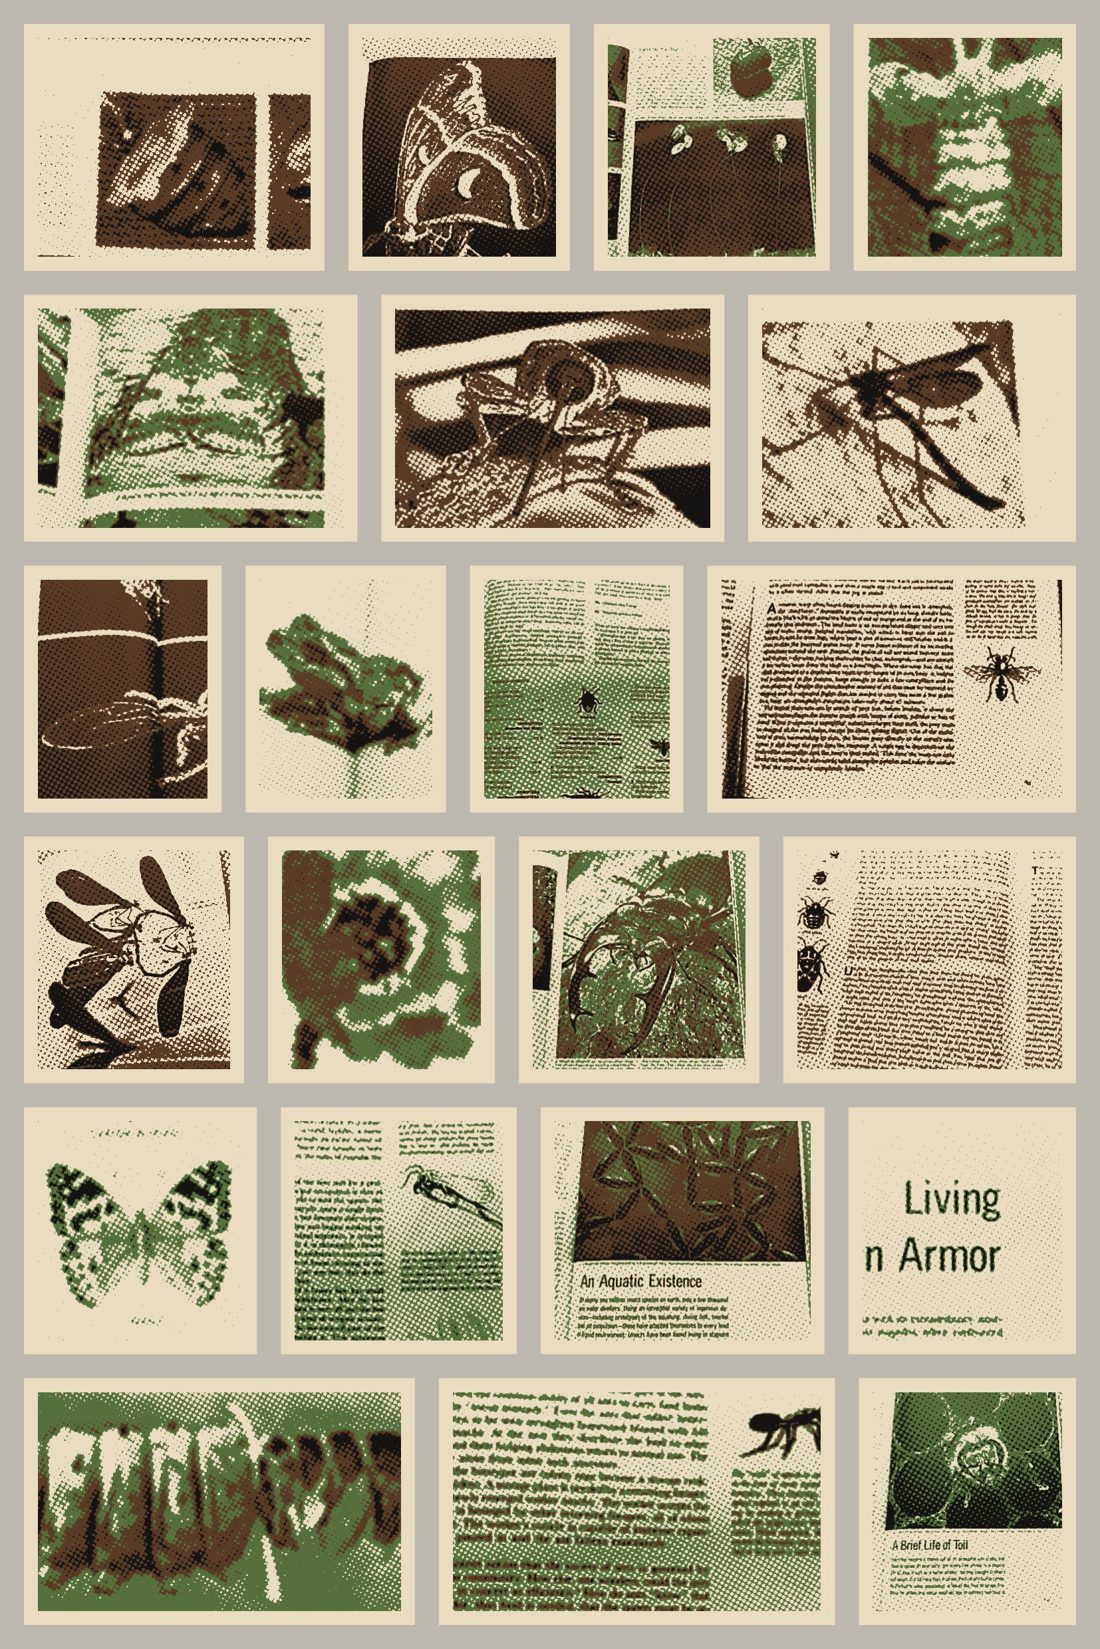
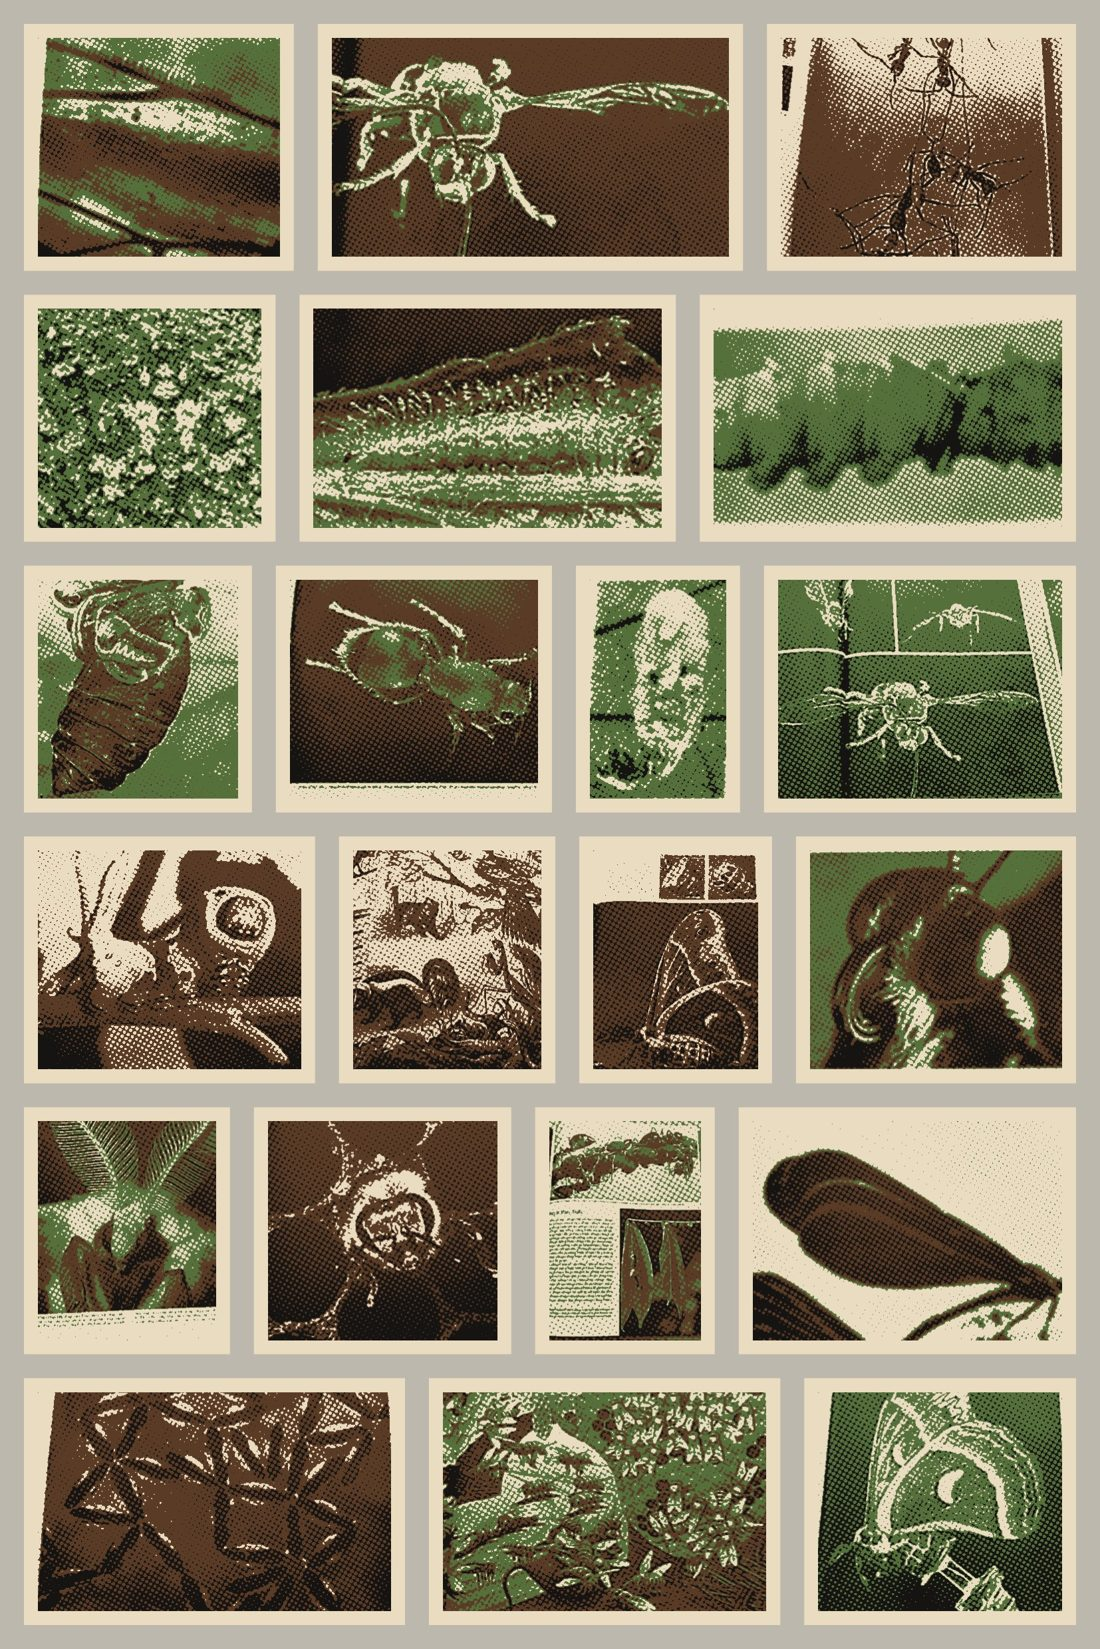
feat: picture-only stamps and picture editor
Claude-Session: https://claude.ai/code/session_01N92mCHG9PcXCEtiR9PC9n8

diff --git a/index.html b/index.html
@@ -37,6 +37,14 @@ main{padding:24px;display:flex;justify-content:center;align-items:flex-start;ove
 #sheet{display:block;width:100%;height:auto;cursor:pointer;border-radius:4px;
   background:repeating-conic-gradient(#e2ddd2 0 25%,#f4f1ea 0 50%) 0 0/18px 18px;box-shadow:0 1px 2px rgba(0,0,0,.08),0 8px 28px rgba(0,0,0,.12)}
 #empty{padding:80px 20px;text-align:center;color:var(--muted)}
+#editor{position:fixed;inset:0;background:#1d1c1afa;display:flex;flex-direction:column;z-index:10;color:#f4f1ea}
+#editor[hidden]{display:none}
+#editor header{display:flex;gap:8px;align-items:center;padding:10px 16px;flex-wrap:wrap}
+#editor header .grow{flex:1;min-width:120px;font-size:13px;color:#cfc8ba}
+#editor button{background:#f4f1ea;color:#1d1c1a;border-color:#f4f1ea}
+#editor button.ghost{background:transparent;color:#f4f1ea}
+#edWrap{flex:1;display:flex;justify-content:center;align-items:center;padding:0 16px 16px;min-height:0}
+#edCanvas{max-width:100%;max-height:100%;cursor:crosshair;touch-action:none}
 @media (max-width:760px){
   body{grid-template-columns:1fr}
   aside{position:static;height:auto;border-right:0;border-bottom:1px solid var(--line)}
@@ -92,6 +100,7 @@ main{padding:24px;display:flex;justify-content:center;align-items:flex-start;ove
     <label><input type="checkbox" id="randPal"> new palette each sheet</label>
   </div>
 
+  <button class="ghost" id="editPics" disabled>Check pictures</button>
   <button id="regen" disabled>New sheet</button>
   <div class="hint">Click a sticker to swap in a different picture.</div>
 
@@ -103,6 +112,17 @@ main{padding:24px;display:flex;justify-content:center;align-items:flex-start;ove
 
   <div id="status"></div>
 </aside>
+
+<div id="editor" hidden>
+  <header>
+    <button class="ghost" id="edPrev">←</button>
+    <button class="ghost" id="edNext">→</button>
+    <span class="grow" id="edInfo"></span>
+    <button class="ghost" id="edClear">Clear page</button>
+    <button id="edDone">Done</button>
+  </header>
+  <div id="edWrap"><canvas id="edCanvas"></canvas></div>
+</div>
 
 <main>
   <div id="wrap">
@@ -232,22 +252,34 @@ function analyze(img0,name){
   // no flood inward: dark photos share the desk's hue and the fill leaks into them
   // Desk colour alone misses shadows under the book, so also treat everything outside the
   // bounding box of the paper-white pixels as desk. Pages here sit roughly square to the camera.
-  const hiL=percentile(L,0.92),colC=new Float32Array(aw),rowC=new Float32Array(ah);
-  for(let i=0;i<N;i++)if(S[i]<0.2&&L[i]>hiL*0.8){colC[i%aw]++;rowC[(i/aw)|0]++;}
-  const span=(arr)=>{const mx=Math.max(...arr),th=mx*0.15;let a=0,b=arr.length-1;while(a<b&&arr[a]<th)a++;while(b>a&&arr[b]<th)b--;return [a,b]};
-  const [bx0,bx1]=span(colC),[by0,by1]=span(rowC);
+  // Count pixels that don't look like desk, so a dark full-page photo still counts as book.
+  const colC=new Float32Array(aw),rowC=new Float32Array(ah);
+  for(let i=0;i<N;i++)if(!near(i)){colC[i%aw]++;rowC[(i/aw)|0]++;}
+  const span=(arr)=>{const mx=Math.max(...arr),th=mx*0.35;let a=0,b=arr.length-1;while(a<b&&arr[a]<th)a++;while(b>a&&arr[b]<th)b--;return [a,b]};
+  let [bx0,bx1]=span(colC),[by0,by1]=span(rowC);
+  // The shadow under the book is darker than the desk but the same hue. Walk in from each edge
+  // while a row or column is still mostly desk-hued at any brightness.
+  const hueDesk=i=>{const r=d[i*4],gg=d[i*4+1],b=d[i*4+2],t=r+gg+b+1,rs=r/t,gs=gg/t;return t>120&&Math.abs(gs-mg)<0.02&&rs>mr-0.03&&rs<mr+0.07};
+  const rowDesk=y=>{let c=0;for(let x=bx0;x<=bx1;x++)c+=hueDesk(y*aw+x);return c/(bx1-bx0+1)>0.6};
+  const colDesk=x=>{let c=0;for(let y=by0;y<=by1;y++)c+=hueDesk(y*aw+x);return c/(by1-by0+1)>0.6};
+  while(by1>by0&&rowDesk(by1))by1--;while(by0<by1&&rowDesk(by0))by0++;
+  while(bx1>bx0&&colDesk(bx1))bx1--;while(bx0<bx1&&colDesk(bx0))bx0++;
   for(let i=0;i<N;i++){const x=i%aw,y=(i/aw)|0;if(x<bx0||x>bx1||y<by0||y>by1)desk0[i]=1;}
   const deskB=boxBlur(desk0,aw,ah,7);
 
   const Lb=boxBlur(L,aw,ah,2),L2=new Float32Array(N);for(let i=0;i<N;i++)L2[i]=L[i]*L[i];
   const L2b=boxBlur(L2,aw,ah,2),Sb=boxBlur(S,aw,ah,2);
+  // judge paper vs picture over a wider window so dense body text reads as grey paper, not as a photo
+  const Lw=boxBlur(L,aw,ah,5),Sw=boxBlur(S,aw,ah,5);
   const pageWhite=percentile(Lb.filter((_,i)=>!desk0[i]),0.9)||0.85;
+  // old paper photographed under warm light is not grey, so measure its own saturation
+  const paperS=percentile(Sb.filter((_,i)=>!desk0[i]&&Lb[i]>pageWhite*0.9),0.5)||0.1;
 
   const desk=new Float32Array(N),fig=new Float32Array(N),text=new Float32Array(N),white=new Float32Array(N);
   for(let i=0;i<N;i++){
     if(deskB[i]>0.02){desk[i]=1;continue}
     const sd=Math.sqrt(Math.max(0,L2b[i]-Lb[i]*Lb[i])),rel=Lb[i]/pageWhite;
-    const paperish=Sb[i]<0.2&&rel>0.72;
+    const paperish=(Sb[i]<paperS+0.1&&rel>0.72)||(Sw[i]<paperS+0.07&&Lw[i]/pageWhite>0.6);
     if(paperish){ if(sd<0.03&&rel>0.9) white[i]=1; else text[i]=1; }
     else fig[i]=1;
   }
@@ -257,7 +289,8 @@ function analyze(img0,name){
     text:integral(boxBlur(text,aw,ah,3),aw,ah),white:integral(white,aw,ah),
     lum:integral(L,aw,ah),lum2:integral(L2,aw,ah),
     maps:{desk,fig,text,white}};
-  p.box={x0:bx0,y0:by0,x1:bx1,y1:by1};p.figs=findFigures(fig,desk,aw,ah);
+  p.box={x0:bx0,y0:by0,x1:bx1,y1:by1};const detail=new Float32Array(N);for(let i=0;i<N;i++)detail[i]=Math.abs(L[i]-Lb[i]);
+  p.figs=findFigures(fig,desk,aw,ah,{text,L,S,detail,box:p.box});
   p.figShare=rectMean(p.fig,aw,0,0,aw,ah);p.textShare=rectMean(p.text,aw,0,0,aw,ah);
   return p;
 }
@@ -301,7 +334,7 @@ function crop(r,W,H){
 
 // Whole pictures, not fragments: connected blobs of "figure" pixels become candidate panels,
 // so a panel can show the entire insect plus the text and white space around it.
-function findFigures(fig,desk,aw,ah){
+function findFigures(fig,desk,aw,ah,ctx){
   const N=aw*ah,b=boxBlur(fig,aw,ah,2),m=new Uint8Array(N);
   for(let i=0;i<N;i++)m[i]=b[i]>0.45&&!desk[i]?1:0;
   const lab=new Int32Array(N),q=new Int32Array(N),out=[];let id=0;
@@ -315,39 +348,60 @@ function findFigures(fig,desk,aw,ah){
       if(y>0&&m[i-aw]&&!lab[i-aw]){lab[i-aw]=id;q[qt++]=i-aw}
       if(y<ah-1&&m[i+aw]&&!lab[i+aw]){lab[i+aw]=id;q[qt++]=i+aw}}
     const w=x1-x0+1,h=y1-y0+1;
-    if(n>N*0.006&&w>14&&h>14&&n/(w*h)>0.2)out.push({x:x0,y:y0,w,h,n});
+    if(n>N*0.006&&w>14&&h>14&&n/(w*h)>0.2&&makesSense(x0,y0,w,h,aw,ctx))out.push({x:x0,y:y0,w,h,n});
   }
   return out;
+}
+
+// Drop blobs that would make a confusing sticker: dense body text the classifier read as a picture,
+// thin strips along the gutter or page edge, flat low-contrast patches, and whole-page blobs that
+// would only ever show as a zoomed-in fragment.
+function makesSense(x0,y0,w,h,aw,{text,L,S,detail,box}){
+  const a=w/h;if(a<0.4||a>2.6)return false;
+  const B=(box.x1-box.x0)*(box.y1-box.y0);if(w*h<B*0.015)return false;
+  let t=0,m=0,m2=0,sat=0,n=0,det=0;
+  for(let y=y0;y<y0+h;y+=2)for(let x=x0;x<x0+w;x+=2){const i=y*aw+x;t+=text[i];det+=detail[i];m+=L[i];m2+=L[i]*L[i];sat+=S[i];n++;}
+  t/=n;m/=n;sat/=n;const sd=Math.sqrt(Math.max(0,m2/n-m*m));
+  if(t>0.3)return false;          // mostly type
+  if(det/n<0.022)return false;    // smooth gradient, like the shadow under the book
+  if(sd<0.12)return false;        // flat, nothing to see
+  if(m<0.2&&sat<0.15)return false; // dark mush
+  return true;
 }
 
 // ---------- panel sources ----------
 let usedFigs=new Set(),usedPages=new Set();
 function figRect(p,f,aspect){
-  // Inset well inside the photo: rotation fixes tilt but not the keystone from shooting at an angle.
-  if(f.n/(f.w*f.h)>0.7&&chance(0.85)){
-    const bw=f.w*0.84,bh=f.h*0.84;let w=bw,h=bw/aspect;if(h>bh){h=bh;w=bh*aspect}
+  // Rectangular photos: crop just inside their own edge so the whole photo shows with straight sides.
+  // The stamp was sized to the photo's shape, so this loses almost nothing.
+  if(f.n/(f.w*f.h)>0.7){
+    const bw=f.w*0.95,bh=f.h*0.95;let w=bw,h=bw/aspect;if(h>bh){h=bh;w=bh*aspect}
     return {page:p,x:(f.x+f.w/2-w/2)/p.k,y:(f.y+f.h/2-h/2)/p.k,w:w/p.k,h:h/p.k,fig:f};
   }
   // Frame the whole figure, sometimes with extra room so captions and margin come along.
-  const pad=chance(0.4)?rand(1.3,1.6):rand(1.06,1.2);
+  const pad=chance(0.45)?rand(1.3,1.55):rand(1.06,1.2);
   let w=f.w*pad,h=f.h*pad;
   if(w/h<aspect)w=h*aspect;else h=w/aspect;
   const B=p.box,PW=B.x1-B.x0,PH=B.y1-B.y0,s=Math.min(1,PW/w,PH/h);w*=s;h*=s;
   const x=clamp(f.x+f.w/2-w/2,B.x0,B.x1-w),y=clamp(f.y+f.h/2-h/2,B.y0,B.y1-h);
   return {page:p,x:x/p.k,y:y/p.k,w:w/p.k,h:h/p.k,fig:f};
 }
-function sourceFor(aspect){
-  if(chance(0.14)){const r=pickRegion('text',aspect,[0.35,0.7]);if(r){usedPages.add(r.page);return r;}}
+function pickFig(aspect){
   const all=[];for(const p of pages)for(const f of p.figs)all.push([p,f]);
-  if(!all.length)return pickRegion('mixed',aspect)||pickRegion('text',aspect);
+  if(!all.length)return null;
   let pool=all.filter(([p,f])=>!usedFigs.has(f)&&!usedPages.has(p));
   if(!pool.length)pool=all.filter(([,f])=>!usedFigs.has(f));
   if(!pool.length){usedFigs.clear();pool=all}
   // a figure whose shape is close to the panel's keeps more of itself in frame
   let best=null,bs=-1;
-  for(let t=0;t<6;t++){const c=pick(pool),fa=c[1].w/c[1].h,score=Math.min(fa,aspect)/Math.max(fa,aspect)+rand(0,0.5);if(score>bs){bs=score;best=c}}
+  for(let t=0;t<6;t++){const c=pick(pool),fa=c[1].w/c[1].h,score=aspect?Math.min(fa,aspect)/Math.max(fa,aspect)+rand(0,0.5):rng();if(score>bs){bs=score;best=c}}
   usedFigs.add(best[1]);usedPages.add(best[0]);
-  return figRect(best[0],best[1],aspect);
+  return best;
+}
+function sourceFor(aspect,fig){
+  const pf=fig||pickFig(aspect);
+  if(!pf)return pickRegion('mixed',aspect)||pickRegion('text',aspect);
+  return figRect(pf[0],pf[1],aspect);
 }
 
 // ---------- palette mapping ----------
@@ -377,6 +431,8 @@ function toPalette(src,ramp,cell){
 }
 
 // ---------- stamp layout ----------
+// paper margin round the picture, like the white edge of a stamp, but cut straight
+const MARGIN=0.07*DPI;
 // Rows of stamp-sized stickers, mostly portrait with some landscape, each row stretched to the
 // full sheet width like a stamp album page. Gutters are wide enough for a cutter.
 const STAMP_ROW={small:0.95,mid:1.2,large:1.55}; // row height in inches
@@ -385,26 +441,26 @@ function stampLayout(W,H,size){
   const target=STAMP_ROW[size]*DPI,rows=Math.max(1,Math.round((ih+gut)/(target+gut))),h=(ih-gut*(rows-1))/rows;
   const panels=[];
   for(let r=0;r<rows;r++){
-    const ws=[];let sum=-gut;
+    // each stamp takes the shape of its picture, so the whole picture fits
+    const ws=[],figs=[];let sum=-gut;
     while(true){
-      const a=chance(0.55)?rand(0.74,0.84):chance(0.35)?rand(0.95,1.05):rand(1.3,1.6);
-      const w=h*a;
-      if(ws.length&&sum+gut+w>iw){if(iw-sum<w*0.5||ws.length>=2)break;}
-      ws.push(w);sum+=gut+w;if(sum>=iw)break;
+      const pf=pickFig();
+      const a=pf?clamp(pf[1].w/pf[1].h*(pf[1].n/(pf[1].w*pf[1].h)>0.7?1:1.1),0.62,1.75):rand(0.74,1.3);
+      const w=(h-2*MARGIN)*a+2*MARGIN;
+      if(ws.length&&sum+gut+w>iw&&iw-sum<w*0.5){if(pf){usedFigs.delete(pf[1]);usedPages.delete(pf[0]);}break;}
+      ws.push(w);figs.push(pf);sum+=gut+w;if(sum>=iw)break;
     }
     const k=(iw-gut*(ws.length-1))/ws.reduce((a,b)=>a+b,0);
-    let x=m;for(const w of ws){panels.push({x,y:m+r*(h+gut),w:w*k,h});x+=w*k+gut;}
+    let x=m;ws.forEach((w,i)=>{panels.push({x,y:m+r*(h+gut),w:w*k,h,fig:figs[i]});x+=w*k+gut;});
   }
   return panels;
 }
 
 // ---------- sheet ----------
 let sheet=null;
-// paper margin round the picture, like the white edge of a stamp, but cut straight
-const MARGIN=0.07*DPI;
 function renderPanel(pn){
   const W=Math.round(pn.w-2*MARGIN),H=Math.round(pn.h-2*MARGIN);
-  pn.src=sourceFor(W/H);pn.ramp=rampFor(sheet.pal);
+  pn.src=sourceFor(W/H,pn.fig);pn.fig=null;pn.ramp=rampFor(sheet.pal);
   pn.canvas=pn.src?toPalette(crop(pn.src,W,H),pn.ramp,+$('#dots').value):null;
 }
 
@@ -457,10 +513,10 @@ async function loadFiles(files){
   for(let i=0;i<list.length;i++){
     setStatus(`reading page ${i+1} of ${list.length}…`);await tick();
     try{const img=await new Promise((res,rej)=>{const im=new Image();im.onload=()=>res(im);im.onerror=rej;im.src=URL.createObjectURL(list[i])});
-      pages.push(analyze(img,list[i].name));}
+      const pg=analyze(img,list[i].name);loadBoxes(pg);pages.push(pg);}
     catch(e){console.warn('skip',list[i].name,e)}
   }
-  $('#regen').disabled=!pages.length;
+  $('#regen').disabled=!pages.length;$('#editPics').disabled=!pages.length;updatePicCount();
   await generate();
   const small=pages.filter(p=>Math.max(p.w,p.h)<1500).length;
   if(small)setStatus($('#status').textContent+` ${small} scans are under 1500 px, so small type will blur. Full size photos fix it.`);
@@ -497,6 +553,46 @@ window.__debugMaps=()=>{
     for(const f of p.figs)g.strokeRect(ox+f.x*s,oy+f.y*s,f.w*s,f.h*s);});
   return c.toDataURL('image/jpeg',0.8);
 };
+// ---------- picture editor ----------
+// The finder gets most pictures but not all, and some of what it finds is nonsense.
+// One pass through the pages here fixes it: click a box to drop it, drag to draw a new one.
+// Boxes are remembered per photo in this browser.
+const boxKey=p=>`sts:${p.name}:${p.w}x${p.h}`;
+function loadBoxes(p){try{const v=localStorage.getItem(boxKey(p));if(v)p.figs=JSON.parse(v);}catch(e){}}
+function saveBoxes(p){try{localStorage.setItem(boxKey(p),JSON.stringify(p.figs));}catch(e){}}
+function updatePicCount(){const n=pages.reduce((a,p)=>a+p.figs.length,0);$('#editPics').textContent=`Check pictures (${n})`;}
+let ed={i:0,drag:null};
+function edDraw(){
+  const p=pages[ed.i],c=$('#edCanvas'),g=c.getContext('2d');
+  c.width=p.w;c.height=p.h;g.drawImage(p.full,0,0);
+  g.fillStyle='rgba(0,0,0,.35)';g.fillRect(0,0,p.w,p.h);
+  const lw=Math.max(2,p.w/250);
+  for(const f of p.figs){const x=f.x/p.k,y=f.y/p.k,w=f.w/p.k,h=f.h/p.k;
+    g.drawImage(p.full,x,y,w,h,x,y,w,h);g.strokeStyle='#ffd400';g.lineWidth=lw;g.strokeRect(x,y,w,h);}
+  if(ed.drag){const d=ed.drag;g.strokeStyle='#7fe0ff';g.lineWidth=lw;g.strokeRect(Math.min(d.x0,d.x1),Math.min(d.y0,d.y1),Math.abs(d.x1-d.x0),Math.abs(d.y1-d.y0));}
+  $('#edInfo').textContent=`Page ${ed.i+1} of ${pages.length}, ${p.figs.length} picture${p.figs.length===1?'':'s'}. Click a box to drop it. Drag to add one.`;
+}
+function edPt(e){const c=$('#edCanvas'),r=c.getBoundingClientRect();return [(e.clientX-r.left)/r.width*c.width,(e.clientY-r.top)/r.height*c.height]}
+$('#edCanvas').addEventListener('pointerdown',e=>{const [x,y]=edPt(e);ed.drag={x0:x,y0:y,x1:x,y1:y};e.target.setPointerCapture(e.pointerId)});
+$('#edCanvas').addEventListener('pointermove',e=>{if(!ed.drag)return;const [x,y]=edPt(e);ed.drag.x1=x;ed.drag.y1=y;edDraw()});
+$('#edCanvas').addEventListener('pointerup',e=>{
+  const d=ed.drag;ed.drag=null;if(!d)return;const p=pages[ed.i];
+  const w=Math.abs(d.x1-d.x0),h=Math.abs(d.y1-d.y0);
+  if(w<p.w/60&&h<p.w/60){ // a click: drop the smallest box under it
+    const hits=p.figs.filter(f=>d.x0>=f.x/p.k&&d.x0<=(f.x+f.w)/p.k&&d.y0>=f.y/p.k&&d.y0<=(f.y+f.h)/p.k).sort((a,b)=>a.w*a.h-b.w*b.h);
+    if(hits.length)p.figs.splice(p.figs.indexOf(hits[0]),1);
+  }else if(w>p.w/40&&h>p.w/40){
+    // drawn boxes are taken as tight around the picture, so they crop like a photo
+    const f={x:Math.min(d.x0,d.x1)*p.k,y:Math.min(d.y0,d.y1)*p.k,w:w*p.k,h:h*p.k};f.n=f.w*f.h*0.9;f.manual=true;p.figs.push(f);
+  }
+  saveBoxes(p);edDraw();
+});
+function edGo(n){ed.i=(ed.i+n+pages.length)%pages.length;edDraw()}
+$('#editPics').onclick=()=>{$('#editor').hidden=false;edDraw()};
+$('#edPrev').onclick=()=>edGo(-1);$('#edNext').onclick=()=>edGo(1);
+$('#edClear').onclick=()=>{const p=pages[ed.i];p.figs=[];saveBoxes(p);edDraw()};
+$('#edDone').onclick=()=>{$('#editor').hidden=true;updatePicCount();generate()};
+document.addEventListener('keydown',e=>{if($('#editor').hidden)return;if(e.key==='ArrowRight')edGo(1);if(e.key==='ArrowLeft')edGo(-1);if(e.key==='Escape')$('#edDone').click()});
 </script>
 </body>
 </html>

diff --git a/README.md b/README.md
@@ -6,7 +6,9 @@ Open `index.html` in a browser and drop the photos on it. Nothing uploads anywhe
 
 Each sheet uses one palette: green beige black brown, or black and white. The picture gets mapped onto those colours dark to light, with a halftone screen between them, so two colours can still show shading. Some stamps use three of the four colours so the sheet doesn't look like one filter.
 
-A stamp is about 3 cm tall, mostly portrait with some square and landscape ones, and each row is stretched to the sheet width. Rectangular photos get cropped inside their own edges so the picture runs straight to the margin. The rest frame a whole figure, sometimes with its caption, and now and then a column of text or a chapter title. Gutters are 3 mm, enough for a cutter. Click a stamp to swap its picture. Same seed gives the same sheet.
+A stamp is about 3 cm tall, mostly portrait with some square and landscape ones, and each row is stretched to the sheet width. Every stamp is a picture. Its width follows the picture's shape so the whole thing fits, photos cropped just inside their own edges and drawings framed with a bit of page, sometimes with the caption. No text-only stamps. Gutters are 3 mm, enough for a cutter. Click a stamp to swap its picture.
+
+The picture finder gets most of them, misses some small drawings, and now and then boxes something that makes no sense, like the shadow under the book. Check pictures opens each page with its boxes: click a box to drop it, drag to draw one. Sheets only use what's boxed, and the boxes are remembered in that browser. Same seed gives the same sheet.
 
 The default sheet is 14 by 21 cm at 300 dpi. Sticker PNG has a transparent background. Cut lines PNG is the stamp outlines alone, for a cutter that wants its own layer.
 
